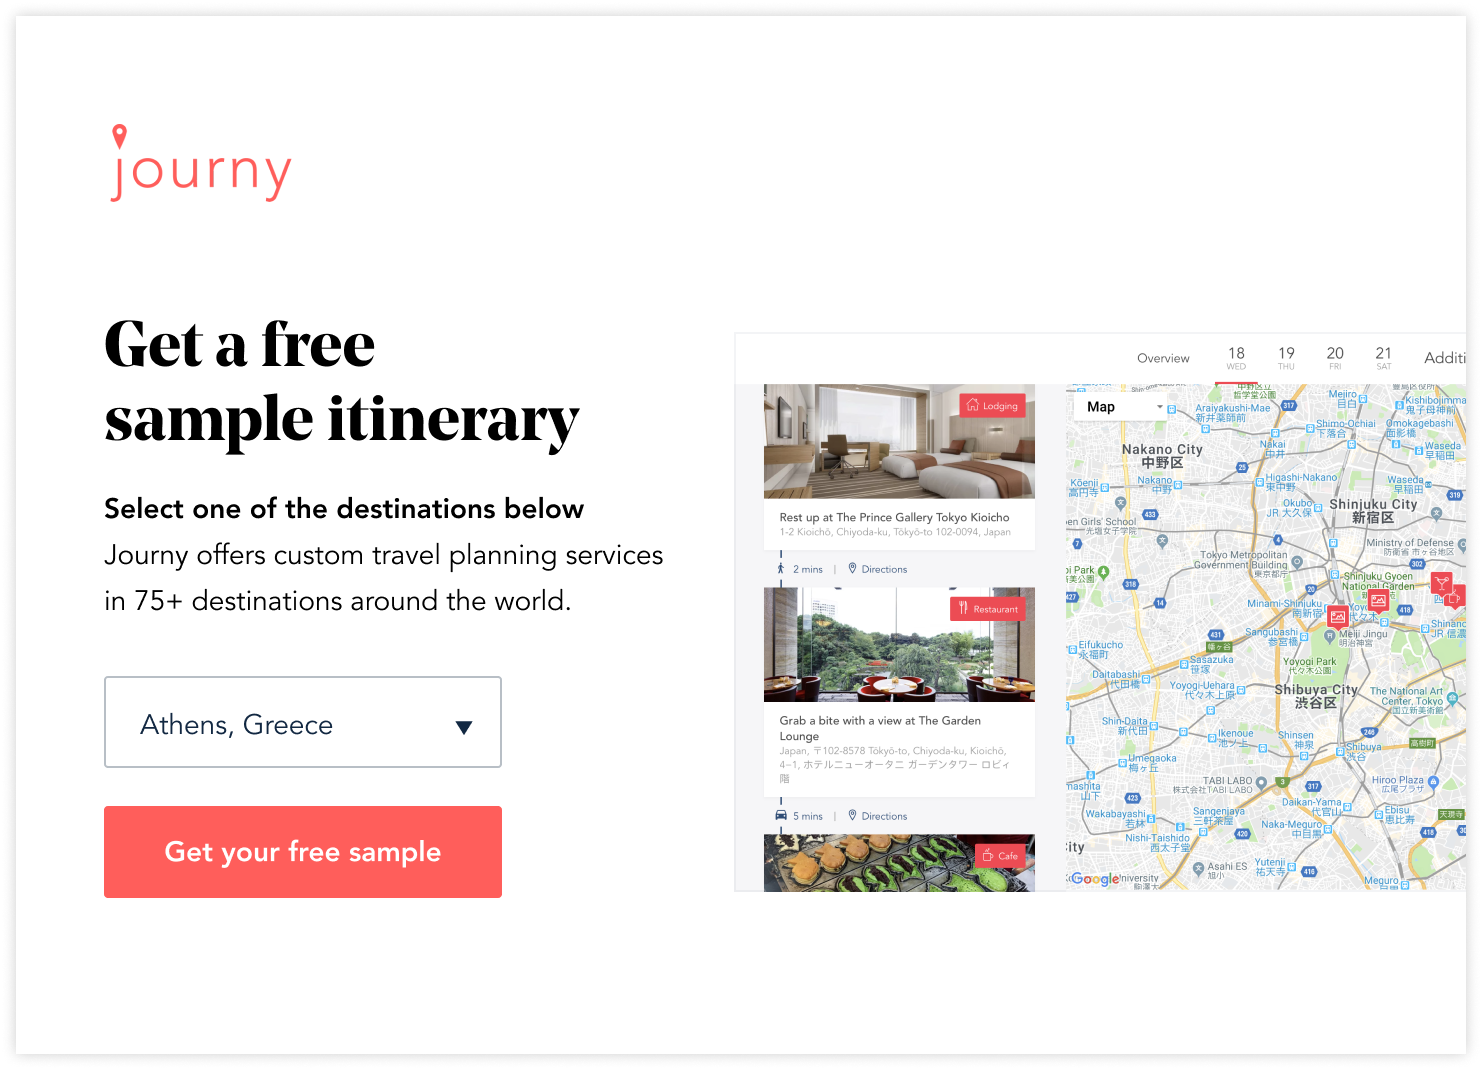
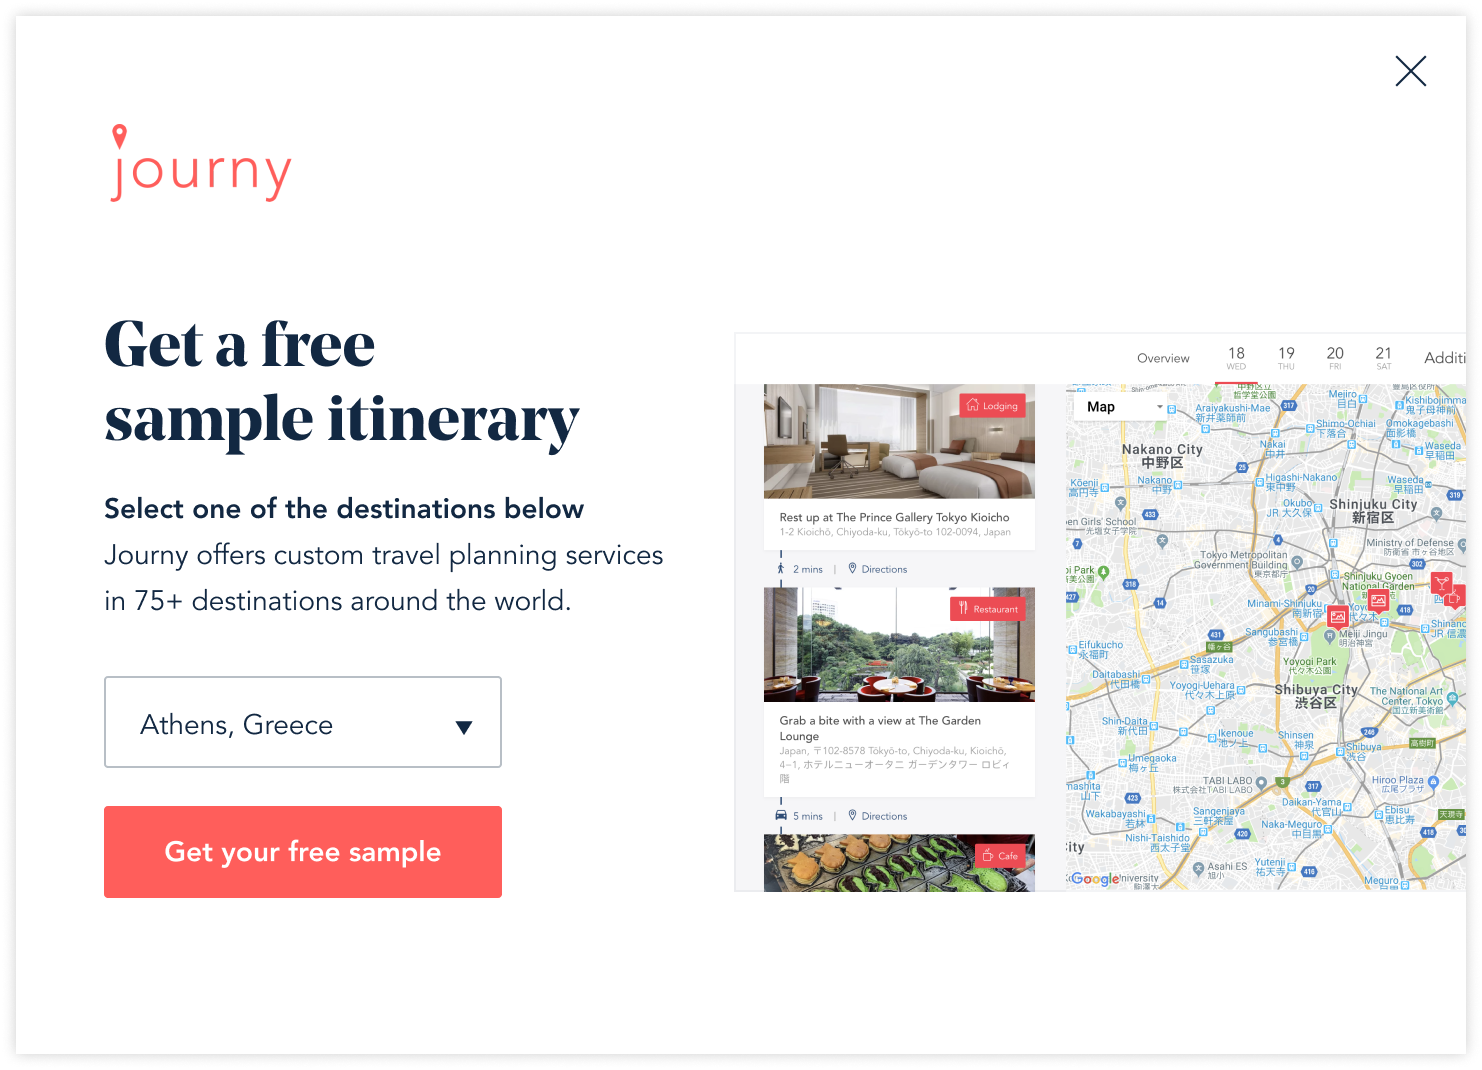
add logic to show modal only once

diff --git a/journy/index.html b/journy/index.html
@@ -423,8 +423,9 @@
 	    document.getElementById("navbar").classList.add('navbar-dark');
 	    document.getElementById("navbar").classList.remove('navbar-light');
 	  }
-    if (document.body.scrollTop > 2000 || document.documentElement.scrollTop > 2000) {
-      $('#sample-itinerary-modal').modal('show');
+    if ((!$('#sample-itinerary-modal').hasClass("shown")) && ((document.body.scrollTop > 2000 || document.documentElement.scrollTop > 2000))) {
+      $('#sample-itinerary-modal').modal("show");
+      $('#sample-itinerary-modal').addClass("shown");
     }
 	}
 </script>
